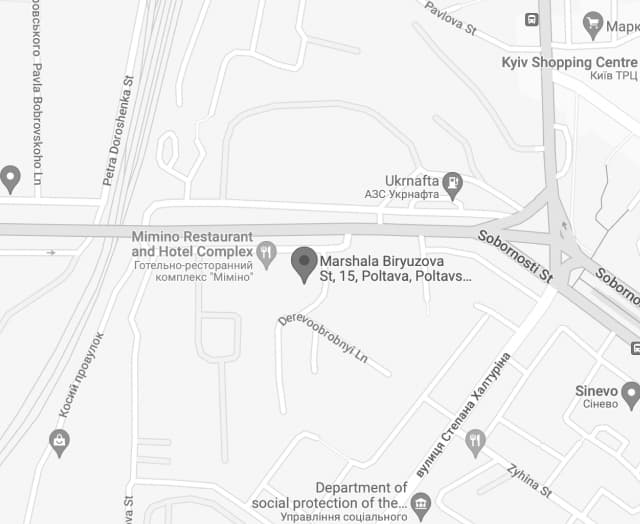
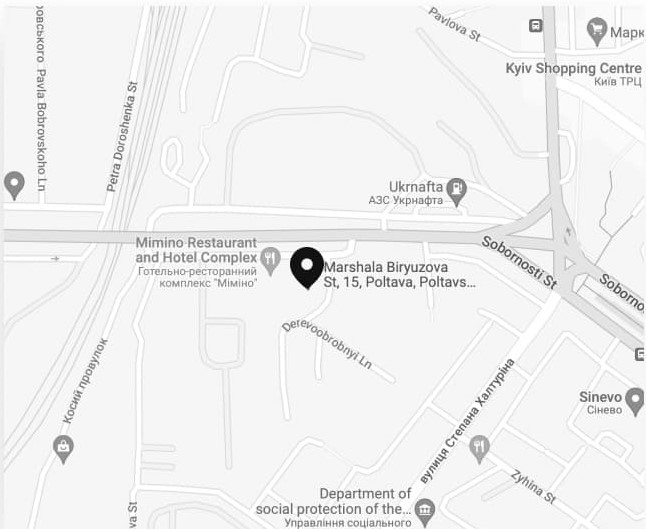
location html  css images update
added css, images and css update

diff --git a/src/css/location.css b/src/css/location.css
@@ -6,13 +6,30 @@
     background-color:#F7F7F7;
     display: flex;
     flex-direction: column;
-    mix-blend-mode: luminosity;
+    
     }
+
+    @media screen and (min-width: 1200px) {
+    .location-block {
+    flex-direction: row-reverse;
+    justify-content: flex-end;}
+
+    }
+
 
 .location-description {
     display: flex;
     flex-direction: column;
     justify-content: space-between;}
+
+    @media screen and (min-width: 1200px) {
+    .location-description {
+    position: relative;
+    left: -320px;
+    bottom: -385px;}
+
+    }
+
     
 /* Location header decription */
     
@@ -35,6 +52,13 @@
     margin-bottom: 40px;}
          }
 
+    @media screen and (min-width: 1200px) {
+        .location-title {
+        display: flex;
+        order: 1;
+        margin-left: 32px;
+        font-size: 68px;}
+                 }
   
 
     /* picture description */
@@ -45,39 +69,27 @@
     justify-content: center;
     } 
 
+    @media screen and (min-width: 1200px) {
+    .map-images {
+    justify-content: flex-start;
+    order: 1;}
+    }
+
     .map-photo {
-        box-shadow: -2px 20px 20px 5px #d8d8d8;
+    box-shadow: -2px 20px 20px 5px #d8d8d8;
     }
 
     @media screen and (min-width: 768px) {
-        .map-photo {
-        width: 704px;}
+    .map-photo {
+    width: 704px;}
     }
  
-
-
-
-    .location-point-item {
-    width: 28px;
-    height: 34px;
-    position: absolute;
-    display: flex;
-    align-items: center;
-    justify-content: center;
-    padding-left: 122px;
-    padding-top: 183px;
-    padding-right:186px ;}
-
-    @media screen and (min-width: 768px) {
-    .location-point-item {
-        width: 34px;
-        height: 42px;
-        padding-left: 318px;
-        padding-top: 269px;
-        padding-right: 352px;}
+    @media screen and (min-width: 1200px) {
+    .map-photo {
+    width: 640px;}
     }
 
-    
+
     
   
   /* adress & tel desc */
@@ -90,12 +102,12 @@
 
 
     @media screen and (min-width: 768px) {
-       .contacts-list {
+    .contacts-list {
     display: flex;
     flex-direction: row;
-    justify-content: space-between;
-       }
-        }
+    justify-content: space-between;}
+    }
+
 
 
     .item-adress {
@@ -113,13 +125,21 @@
 
     
     .contacts-subtitle{
-    font-weight: 700;
+    font-weight: 500;
     font-size: 14px;
-    line-height: 1.2;
+    line-height: 1.2; 
     letter-spacing: -0.02em;
     text-transform: uppercase;
     margin-bottom: 12px;
     }
+
+   
+
+    @media screen and (min-width: 1200px) {
+        .contacts-subtitle {
+        font-weight: 700;}
+            }
+
 
     @media screen and (min-width: 768px) {
     .contacts-block {
@@ -127,6 +147,14 @@
     flex-direction: column;}
     }
 
+
+    @media screen and (min-width: 1200px) {
+    .contacts-block {
+    margin-left: 70px;
+    flex-direction: row;
+    width: 280px;
+    align-items: baseline;}
+     }
     
     
     .item-phone {
@@ -137,10 +165,13 @@
     line-height: 1.3;
     display: flex;
     flex-direction: column;
+    column-gap: 4px;
     letter-spacing: -0.02em;
     color: #121212;
     margin-bottom: 88px;
     }
+
+  
 
     @media screen and (min-width: 768px) {
     .item-phone {
@@ -148,3 +179,10 @@
     line-height: 24px;
     margin-bottom: 114px;}
    }
+
+   @media screen and (min-width: 1200px) {
+    .item-phone {
+    margin-left: 12px;
+    }
+   }
+

diff --git a/src/container-home/section-location.html b/src/container-home/section-location.html
@@ -1,13 +1,13 @@
 <!-- Main Page Location and Contacts HTML -->
 
-    
+<section class="location">    
     
 <div class="location-block">
 
     <h2 class="location-title">LOCATION</h2>
+
     <div class="map-images">
-        <img src="../img/images-location/location-point.svg" alt="point"
-        class="location-point-item">
+        
     <picture>
         <source srcset=
         "../img/images-location/map-desktop@1x.jpg 1x, 
@@ -29,15 +29,21 @@
 
 <div class="location-description">
     
+    
     <div class="contacts-list">
-    <p class="item-adress">Ukraine, Poltava,<br>
-     St. Marshal Biryuzov, 15</p>
+    <a><h3 class="item-adress">Ukraine, Poltava,<br>
+     St. Marshal Biryuzov, 15</h3></a>
 
     <div class="contacts-block">
     <p class="contacts-subtitle">call us:</p>
     <ul class="item-phone">
-        <li>(095) 555 95 33</li>
-        <li>(066) 849 10 89</li>
+       <li>
+        <a href="tel: +38(095) 555 95 33">(095) 555 95 33</a>
+    </li>
+    <li>
+        <a href="tel: +38(066) 849 10 89">(066) 849 10 89</a>
+    </li>
+
     </ul>
     </div>
    </div>
